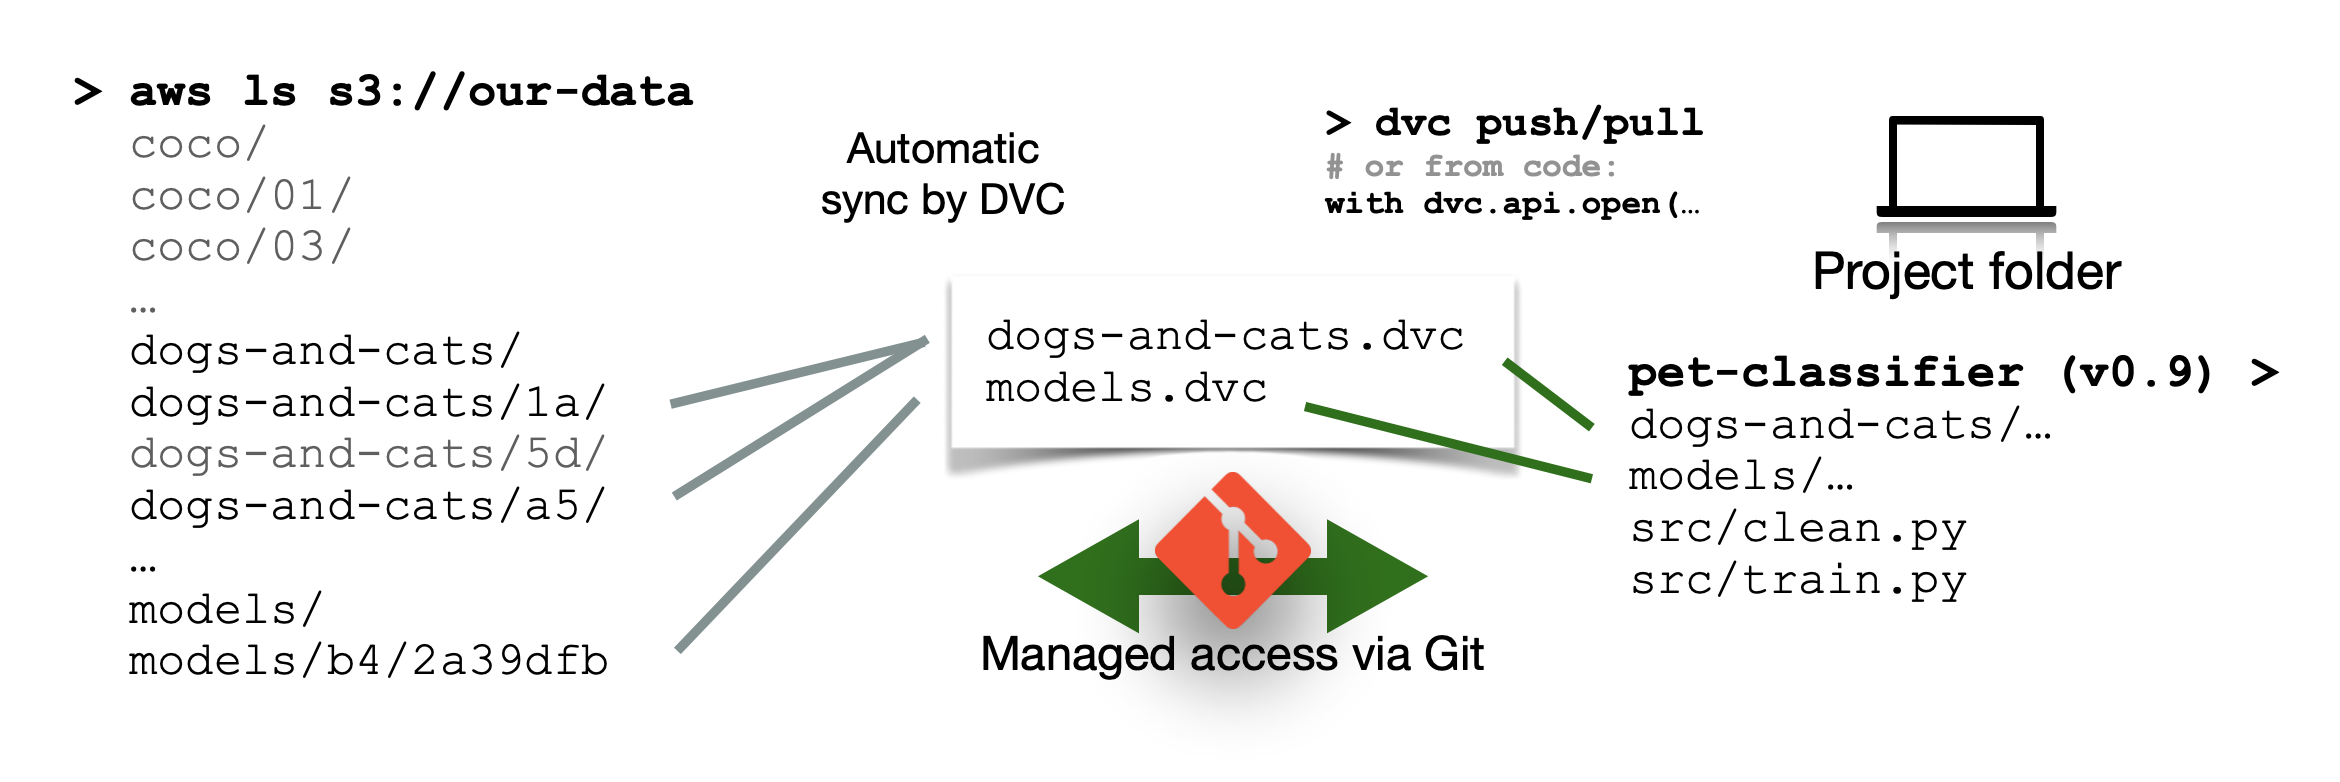
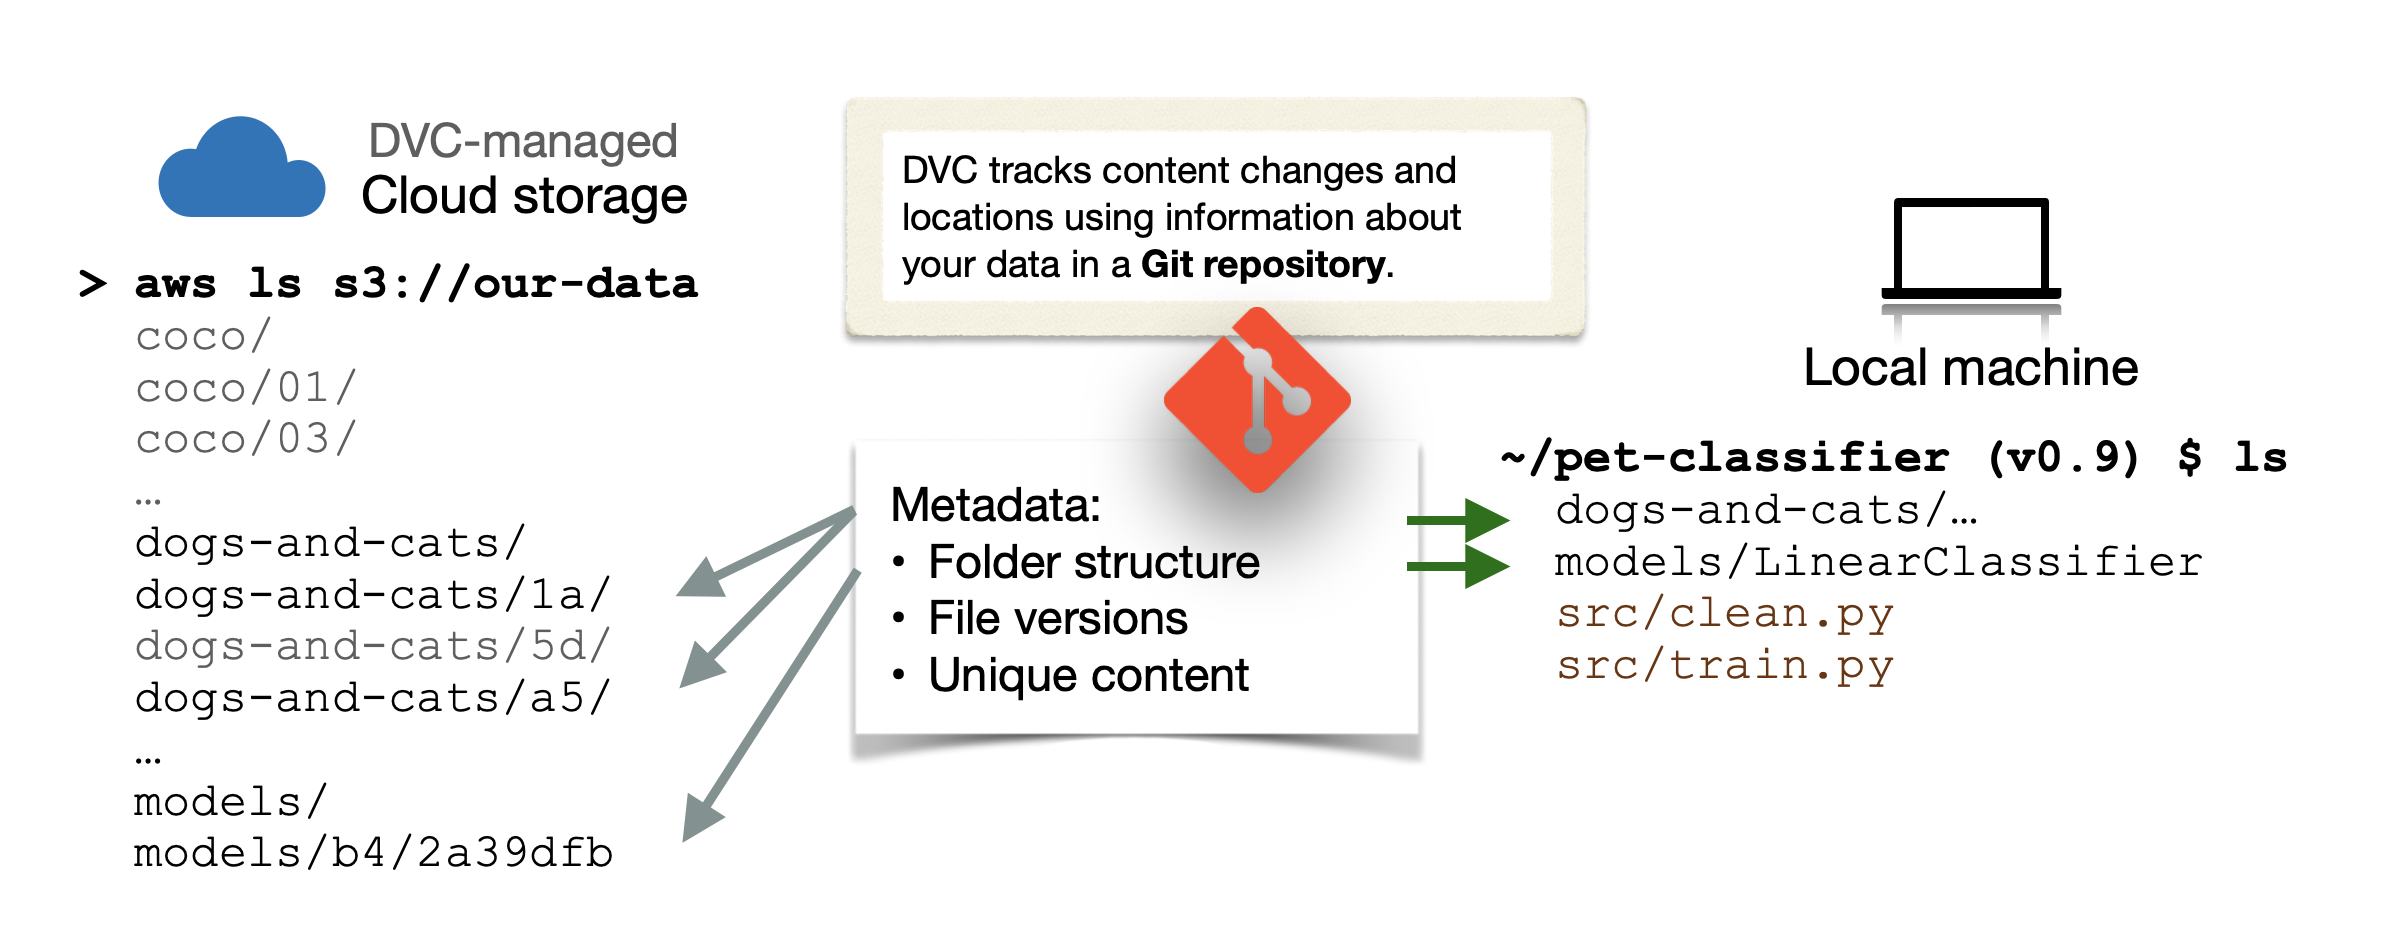
guide: update Data Mgmt figures (with notes),
expand img captions,
and update text accordingly.

diff --git a/content/docs/user-guide/data-management/index.md b/content/docs/user-guide/data-management/index.md
@@ -4,28 +4,35 @@
 ## Data Management for Machine Learning
 -->
 
-Where and how to store data and ML model files is one of the first decisions
-your team will have to make. But as projects grow, files may end up scattered
-throughout multiple buckets and folders. Datasets repeat and overlap, causing
-data leakage and inefficient storage. Other people's work coexists with yours
-(error-prone and not secure). How do you find the data you need? What was the
-name of the best model? Will others be able to reproduce your results?
+Where and how to store datasets and ML model files is one of the first decisions
+your team will face. But as time progresses, unnecessary files may end up
+scattered throughout multiple buckets and folders. Overlapping contents cause
+data leakage and inefficient storage. The project evolution is not easily to
+track, so multiple data versions coexist (error-prone and not secure). What was
+the name of the best model? Will others be able to reproduce your results?
 
 ![Direct storage access](/img/direct_access_storage.png) _Managing code, data,
-and models manually does not scale and quickly becomes a problem._
+and models manually does not scale: The S3 bucket on the left is shared by
+various people and projects; The user on the right needs to know the exact
+location of the correct files, and uses cloud-specific tools (e.g. AWS CLI) to
+access them directly._
 
 DVC gives your data stores a structure, helping you take control of existing
-[storage platforms]. It provides clear visibility over all your data and helps
-secure its access.
+[storage platforms]. It maintains visibility over all your data and helps secure
+its access.
 
-![DVC data access](/img/dvc_managed_storage.png) _DVC keeps track of which data
-files you need in the current version of a project._
+![DVC data access](/img/dvc_managed_storage.png) _DVC captures the structure of
+your datasets in a code repository, which can be versioned with Git. The storage
+(left) can now be reorganized to eliminate duplication; You access data with
+`dvc` (multi-cloud support) -- it checks the metadata to locate files in both
+sides._
 
-Your storage is managed from a Git repository, so you can go back to any
-previous state of a <abbr>project</abbr> and the data will match the code and
-parameters you used at that time. In other words, [data versioning] guarantees
-[reproducibility]. DVC knows where the underlying files reside and avoids
-duplicates. This requires a few key changes to your workflow:
+DVC lets you describe the entire <abbr>project</abbr> in a Git repository, so
+you can go back to any previous state and find the right data, code, parameters,
+etc. used at that time. In other words: [data versioning] guarantees [ML
+reproducibility].
+
+This requires a few key changes to your workflow:
 
 1. Data and models must be registered in a code repository (typically on Git).
 1. Stored objects are [reorganized] by DVC (not intended for manual handling).
@@ -34,14 +41,14 @@ duplicates. This requires a few key changes to your workflow:
 
 [storage platforms]: /doc/command-reference/remote/add#supported-storage-types
 [data versioning]: /doc/use-cases/versioning-data-and-models
-[reproducibility]: /doc/user-guide/pipelines
+[ml reproducibility]: /doc/user-guide/pipelines
 [reorganized]:
   /doc/user-guide/project-structure/internal-files#structure-of-the-cache-directory
 
 ## How it works
 
 <abbr>DVC repositories</abbr> contain [metafiles] (e.g. `data.dvc`) that act as
-pointers, [linking] to your data files and directories. This keeps your project
+pointers, [linking]? to your data files and directories. This keeps your project
 folder small and comprised mainly of text-like code and configuration files you
 can [version with Git] normally. DVC moves your assets (large files, binaries,
 etc.) to a content-addressable <abbr>cache</abbr>, eliminating any duplicates.
